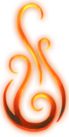
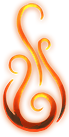
Updated image files and added website pages
- Added pre-order page stub
- Added presskit page stub
- Sharpened some of the images
- reduced the resolution on some of the halo images
- tweaked the css and page

diff --git a/index.html b/index.html
@@ -7,6 +7,13 @@
 <meta name="author" content="Year Seventeen LCC" /> 
 <meta name="description" content="Fireborne" /> 
 <meta name="viewport" content="width=device-width, initial-scale=1.0">
+<meta property="og:url" content="http://firebornegame.com/">
+<meta property="og:title" content="Fireborne, a tale of light versus dark.">
+<meta property="og:description" content="Fireborne is a world-building RPG for PC.">
+<meta property="og:image" content="http://firebornegame.com/img/fireborne.png">
+<meta property="og:image:type" content="image/png">
+<meta property="og:image:width" content="992">
+<meta property="og:image:height" content="992">
 
 <link rel="shortcut icon" href="favicon.ico" type="image/x-icon">
 <link rel="icon" href="favicon.ico" type="image/x-icon">
@@ -22,7 +29,7 @@
 	<div class="stars-background" data-parallax-ratio="3"></div>
 </div>
 <div id="loader"><div id="progress"></div>
-    <h2>Loading Fireborne...</h2>
+    <h2>The light is coming back...</h2>
 </div>
 <div id="back_gradient"></div>
 <div id="website">
@@ -33,11 +40,11 @@
 				<!--<a id="youtube" class="rezo_sociaux"  href="#"></a>-->
                 <a id="twitter" class="rezo_sociaux" href="https://twitter.com/firebornegame"></a>
                 <a id="facebook" class="rezo_sociaux" href="https://www.facebook.com/firebornegame"></a>
-                <a id="tumblr" class="rezo_sociaux" href="http://firebornegame.tumblr.com/">	</a>
+                <a id="tumblr" class="rezo_sociaux" href="http://blog.firebornegame.com/">	</a>
 				
-				<!--<a id="preorder" href="#">
+				<a id="preorder" href="/preorder.html">
 					<p>Pre-Order</p>
-				</a>-->
+				</a>
 				
 			</div>
 			<div class="clearer"></div>
@@ -88,13 +95,16 @@
    				<div>
    					<div class="align-center">
    					<div class="user_comment">
-						<img class="float_left" src="img/fire_icon02.png">
-							<div class="comment float_left">	
-								<h2 class="quotes">"Fireborne is the best game in the world"</h2>
-								<h3 class="signature">- The Fireborne Devteam</h3>
-							</div>
-							<div class="clearer"></div>
-   					</div>
+                        <img class="float_left" src="img/fire_icon02.png" />
+                        <div class="comment float_left">
+                            <h2 class="quotes">
+                                "The Yin, they fell, and wounded, cried,<br />
+                                That night the Heart of Fire died."<br />
+                            </h2>
+                            <h3 class="signature">Unknown Author</h3>
+                        </div>
+                        <div class="clearer"></div>
+                    </div>
    					</div>
    				</div>
    				<!-- ABOUT -->
@@ -181,14 +191,18 @@
    				<div id="devblog">
    					<div id="devblog_title">
    						<h1>From the Fireborne Devblog</h1>
-   						<p>Get your news fresh from the source! Or follow us on your favorite Social Media.</p>
+                           <p>
+                               See what we've been up to right here, or follow us on your favorite Social Media.
+                           </p>
    					</div>
    					<div id="devblog-posts">
        					<div class="devblog_template row devblog_article">
 	       					<div class="col-sm-4 align-center">
-	       						<div class="devblog_media"></div>		       						
+                                <div class="devblog_media_box">
+                                    <div class="devblog_media"></div>
+                                </div>
 	       					</div>
-	       					<div class="col-sm-8">
+	       					<div class="col-sm-8 encroach-left">
 	       						<h2 class="yellowh2 devblog_date">{!DATE}</h2>
 								<div class="devblog_content">{!CONTENT}</div>
 	       					</div>
@@ -199,12 +213,15 @@
 			
 				<div class="align-center">
 					<div class="user_comment">
-					<img class="float_left" src="img/fire_icon02.png">
-						<div class="comment float_left">	
-							<h2 class="quotes">"Fireborne is the best game in the world"</h2>
-							<h3 class="signature">- The Fireborne Devteam</h3>
-						</div>
-						<div class="clearer"></div>
+					<img class="float_left" src="img/fire_icon02.png"/>
+					<div class="comment float_left">	
+                        <h2 class="quotes">
+                            "But in that black and sightless dawn,<br />
+                            The brood of Other came to spawn."<br />
+                        </h2>
+                        <h3 class="signature">Unknown Author</h3>
+					</div>
+					<div class="clearer"></div>
 					</div>
 				</div>
 			
@@ -216,8 +233,8 @@
 		<div id="back_black"></div>
 		<div id="small_logo"></div>
 			<div id="legal">
-				<a href="">Contact Us</a> | <a href="">PressKit</a><br>
-				<p>Website powered by <a href="http://www.g3dev.ch/">g3dev</a> | © All content copyright Year Seventeen, LLC. Fireborne is a trademark of Year Seventeen, LLC.</p>
+				<a href="mailto:contact@firebornegame.com">Contact Us</a> | <a href="/presskit.html">PressKit</a><br>
+				<p>Website powered by <a href="http://www.g3dev.ch/">g3dev</a> | © All content copyright Year Seventeen, LLC. | Fireborne is a trademark of Year Seventeen, LLC.</p>
 			</div>
 	</footer>
 

diff --git a/css/style.css b/css/style.css
@@ -134,6 +134,27 @@
 	text-align: center;
 }
 
+.align-right{
+    text-align:right;
+}
+
+.align-center-everything{
+	text-align:center;
+	position:fixed;
+	width:100%;
+	top:40%;
+	font-size:200%;
+}
+
+.align-center-everything.h2 {
+	text-shadow:0 0 4px darkgray;
+}
+
+.encroach-left{
+    margin-left:-5%;
+    margin-right:5%;
+}
+
 /* GENERAL */
 
 body{
@@ -171,10 +192,11 @@ p{
 
 .lettrine::first-letter{
 	font-size: 200%;
+    font-family: Helvetica Neue;
 }
 
 .yellowh2{
-	color: #c25c1e;
+	color: #925418;
 	margin-top: 0px;
 	font-size: 250%;
 }
@@ -213,6 +235,11 @@ p{
 	opacity:.7;
 	transition:width .2s linear;
 	-webkit-transition:width .2s linear;
+}
+
+h2.quotes{
+    font-size: 25px;
+    margin-top: 10px;
 }
 
 /* STARS */
@@ -314,6 +341,12 @@ p{
 	margin: 10px 5px 0 0;
 }	
 
+.rezo_sociaux_grey{
+	width:50px;
+	height:46px;
+	margin: 10px 5px 0 0;
+}	
+
 #youtube{
 	background-image: url(../img/ico_youtube.png);
 }
@@ -327,6 +360,22 @@ p{
 }
 
 #tumblr{
+	background-image: url(../img/ico_tumblr.png);
+}
+
+#youtube_grey{
+	background-image: url(../img/ico_youtube.png);
+}
+
+#twitter_grey{
+	background-image: url(../img/ico_twitter.png);
+}
+
+#facebook_grey{
+	background-image: url(../img/ico_fb.png);
+}
+
+#tumblr_grey{
 	background-image: url(../img/ico_tumblr.png);
 }
 
@@ -693,10 +742,11 @@ p{
 	display: inline-block;
 	margin: 135px auto;
 	text-align: left;
+    vertical-align:middle;
 }
 
 .comment{
-	padding-left:30px;	
+    padding-left: 20px;
 }
 
 .signature{
@@ -718,6 +768,7 @@ p{
 #perso{
 	background-image:url(../img/Nod_Idle3.gif);	
 }
+
 #undead{
 	background-image:url(../img/undead.png);
 }
@@ -800,8 +851,8 @@ p{
 /* DEVBLOG */
 
 #devblog_title{
-	margin-left: 80px;
 	margin-bottom: 80px;
+    text-align: center;
 }
 
 #devblog_title h1{
@@ -822,15 +873,21 @@ p{
 
 .devblog_media{	
 	margin:auto auto;
-	width:219px;
-	height:219px;
-	border: 2px solid #c25c1e;	
+	width:170px;
+	height:170px;
+	border: 3px solid #000000;	
 	background-size:cover;
 	background-position:center center;
 }
 
+.devblog_media_box{
+	margin:auto auto;
+	width:176px;
+	height:176px;
+	border: 2px solid #925418;	
+}
 #devblog img{
-	border:2px solid #c25c1e;
+	border:2px solid #925418;
 }
 
 /* FOOTER */
@@ -899,7 +956,7 @@ footer #legal p{
 	}	
 
 	.comment{
-		max-width:80%;
+        padding-left: 20px;
 	}
 
 	.rezo_sociaux{
@@ -967,6 +1024,11 @@ footer #legal p{
 		height:128px;
 	}	
 
+	.devblog_media_box{	
+		width:134px;
+		height:134px;
+	}	
+
 	img{
 		max-width:100%;
 	}
@@ -978,6 +1040,9 @@ footer #legal p{
 
 @media(max-width:768px){
 
+    #perso{
+	    background-image:url(../img/Nod_Idle3_mobile.gif);	
+    }
 	footer{
 		background-size:250% auto; 
 	}
@@ -1000,7 +1065,7 @@ footer #legal p{
 	#top_link{
 		position: absolute;
 	}
-
+    align-
 	.user_comment img{
 		max-width:50px;
 	}

diff --git a/presskit.html b/presskit.html
@@ -1,0 +1,38 @@
+<!DOCTYPE html>
+<html>
+
+<head> 
+<title>Fireborne</title> 
+<meta http-equiv="content-type" content="text/html; charset=UTF-8" /> 
+<meta name="author" content="Year Seventeen LCC" /> 
+<meta name="description" content="Fireborne" /> 
+<meta name="viewport" content="width=device-width, initial-scale=1.0">
+
+<link rel="shortcut icon" href="favicon.ico" type="image/x-icon">
+<link rel="icon" href="favicon.ico" type="image/x-icon">
+
+<link href="bootstrap/css/bootstrap.min.css" rel="stylesheet">
+<link rel="stylesheet" type="text/css" href="css/style.css">
+</head> 
+ 
+<body>
+<div id="stars-parallax">
+	<div class="stars-background" data-parallax-ratio="20"></div>
+	<div class="stars-background" data-parallax-ratio="10"></div>
+	<div class="stars-background" data-parallax-ratio="3"></div>
+</div>
+<div id="website">
+    <div class="align-center-everything">
+        <h2>Our presskit will be ready soon</h2>
+        <h4 style="color:grey">In the meantime, feel free to <a href="mailto:contact@firebornegame.com">contact us</a></h4>
+    </div>
+</div>
+
+
+	<script src="js/jquery-1.11.1.min.js"></script>
+	<script src="js/jquery.stellar.min.js"></script>	
+	<script src="bootstrap/js/bootstrap.min.js"></script>
+	<!--<script src="js/lazyLoader.js"></script>
+	<script src="js/main.js"></script>-->
+</body>
+</html>

diff --git a/preorder.html b/preorder.html
@@ -1,0 +1,37 @@
+<!DOCTYPE html>
+<html>
+
+<head> 
+<title>Fireborne</title> 
+<meta http-equiv="content-type" content="text/html; charset=UTF-8" /> 
+<meta name="author" content="Year Seventeen LCC" /> 
+<meta name="description" content="Fireborne" /> 
+<meta name="viewport" content="width=device-width, initial-scale=1.0">
+
+<link rel="shortcut icon" href="favicon.ico" type="image/x-icon">
+<link rel="icon" href="favicon.ico" type="image/x-icon">
+
+<link href="bootstrap/css/bootstrap.min.css" rel="stylesheet">
+<link rel="stylesheet" type="text/css" href="css/style.css">
+</head> 
+ 
+<body>
+<div id="stars-parallax">
+	<div class="stars-background" data-parallax-ratio="20"></div>
+	<div class="stars-background" data-parallax-ratio="10"></div>
+	<div class="stars-background" data-parallax-ratio="3"></div>
+</div>
+<div id="website">
+    <div class="align-center-everything">
+        <h2>Pre-order will be available soon</h2>
+    </div>
+</div>
+
+
+	<script src="js/jquery-1.11.1.min.js"></script>
+	<script src="js/jquery.stellar.min.js"></script>	
+	<script src="bootstrap/js/bootstrap.min.js"></script>
+	<!--<script src="js/lazyLoader.js"></script>
+	<script src="js/main.js"></script>-->
+</body>
+</html>

diff --git a/js/main.js b/js/main.js
@@ -1,4 +1,4 @@
-var tumblr_url = "http://firebornegame.tumblr.com/api/read/json/?num=3";
+var tumblr_url = "http://blog.firebornegame.com/api/read/json/?num=3";
 
 var planet_filename = "img/logo/planet01.png"; //image de référence pour le resizing du logo
 
